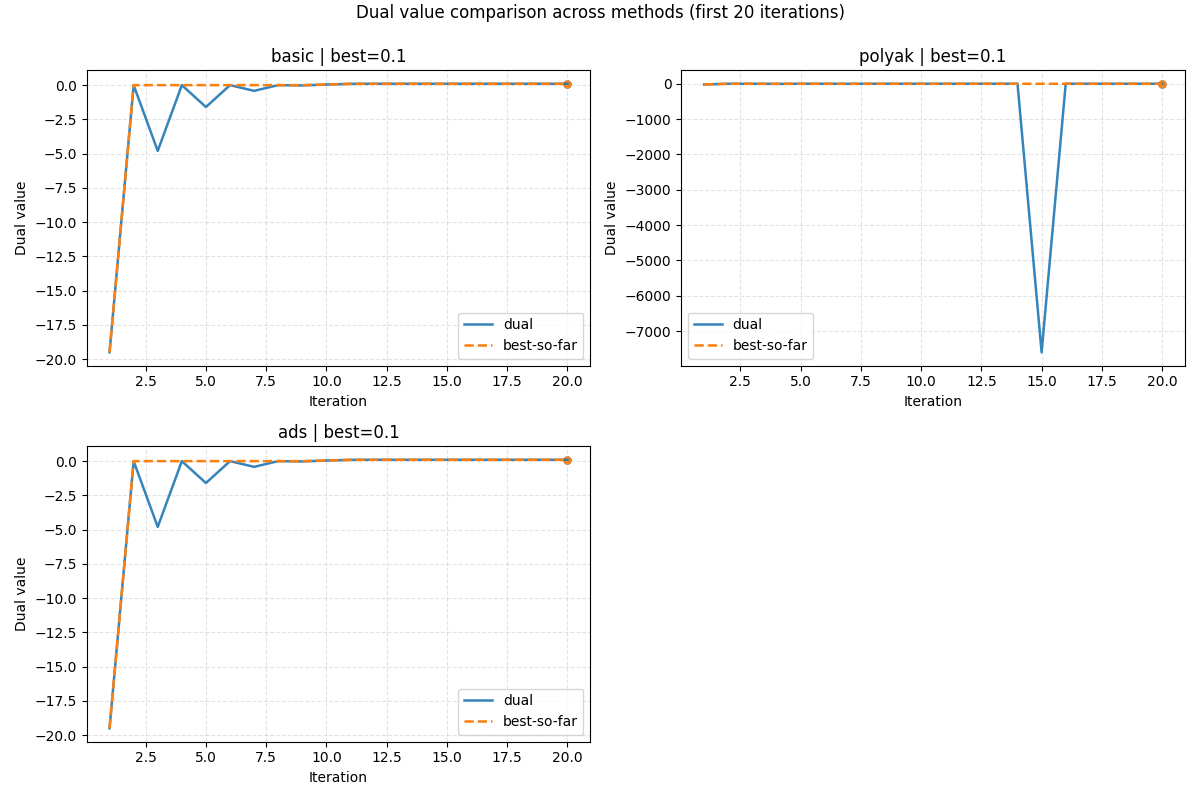
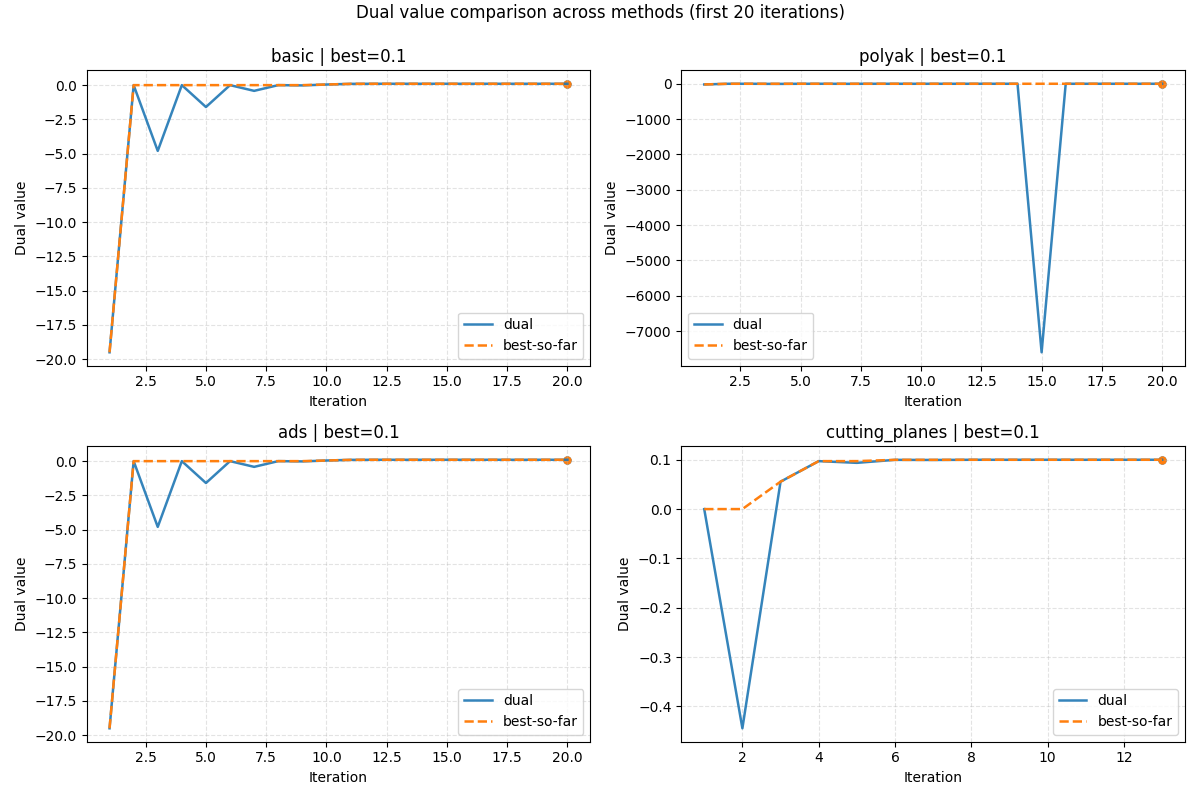
updated computePlots

diff --git a/plots/computePlots.py b/plots/computePlots.py
@@ -1,5 +1,12 @@
 import numpy as np
 import matplotlib.pyplot as plt
+import sys
+from pathlib import Path
+
+PROJECT_ROOT = Path(__file__).resolve().parents[1]
+SRC_PATH = PROJECT_ROOT / "src"
+if str(SRC_PATH) not in sys.path:
+	sys.path.insert(0, str(SRC_PATH))
 
 from subgradients import (
 	subgradient_basic,
@@ -68,14 +75,35 @@ def compare_dual_value_methods(
 		if result is None:
 			return None
 
-		if isinstance(result, tuple) and len(result) >= 3:
-			best_dual, _, history = result[:3]
-			dual_values = [it["dual_value"] for it in history]
+		if isinstance(result, tuple) and len(result) >= 4 and isinstance(result[3], list):
+			best_dual = result[1]
+			history = result[3]
+			dual_values = [it["dual_value"] for it in history if "dual_value" in it]
 			return {
 				"best_dual": best_dual,
 				"dual_values": dual_values,
 				"iterations": len(dual_values),
 			}
+
+		if isinstance(result, tuple) and len(result) >= 3:
+			# Subgradient methods return (best_dual, best_x, history).
+			if isinstance(result[2], list):
+				best_dual, _, history = result[:3]
+				dual_values = [it["dual_value"] for it in history]
+				return {
+					"best_dual": best_dual,
+					"dual_values": dual_values,
+					"iterations": len(dual_values),
+				}
+
+			# Cutting planes returns (best_lambda, LB, UB) without iteration history.
+			if isinstance(result[1], (int, float, np.floating)):
+				best_dual = float(result[1])
+				return {
+					"best_dual": best_dual,
+					"dual_values": [best_dual],
+					"iterations": 1,
+				}
 
 		if isinstance(result, dict):
 			history = result.get("history", [])
@@ -121,7 +149,11 @@ def compare_dual_value_methods(
 			problem_name=problem_name,
 			**ads_kwargs,
 		),
-		"cutting_planes": lambda: cutting_planes(**cutting_planes_kwargs),
+		"cutting_planes": lambda: cutting_planes(
+			epsilon=cutting_planes_kwargs.get("epsilon", min_step_size),
+			problem_name=problem_name,
+			return_history=True,
+		),
 	}
 
 	for method_name, solver_call in method_calls.items():

diff --git a/src/subgradients.py b/src/subgradients.py
@@ -355,7 +355,7 @@ def solve_master_program(master_data):
     return lambda_r, t_r
 
 
-def cutting_planes(epsilon, problem_name: str):
+def cutting_planes(epsilon, problem_name: str, return_history: bool = False):
     set_active_problem(problem_name)
     x1 = feasible_x_sol()
 
@@ -373,6 +373,7 @@ def cutting_planes(epsilon, problem_name: str):
     LB = -math.inf
 
     best_lambda = np.zeros(nb_ineq_ctrs)
+    history = []
 
     # main loop Algorithm 3.4.1
     while UB - LB > epsilon:
@@ -396,4 +397,14 @@ def cutting_planes(epsilon, problem_name: str):
             master_data["cuts"].append(new_cut)
             r += 1
 
-    return best_lambda, round(LB, 2), round(UB, 2)        
+        history.append({
+            "dual_value": float(L_lambda_r),
+            "lower_bound": float(LB),
+            "upper_bound": float(UB),
+            "gap": float(UB - LB),
+        })
+
+    if return_history:
+        return best_lambda, round(LB, 2), round(UB, 2), history
+
+    return best_lambda, round(LB, 2), round(UB, 2)       
